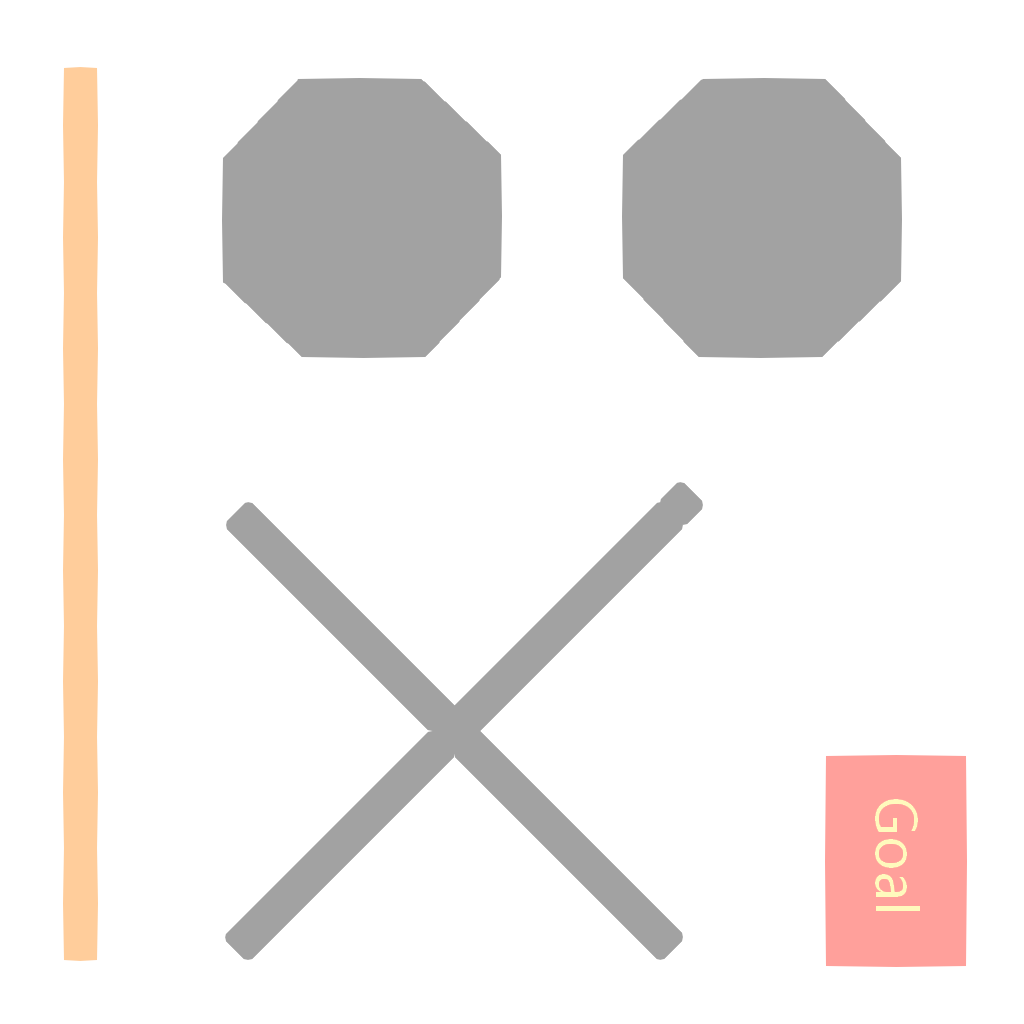
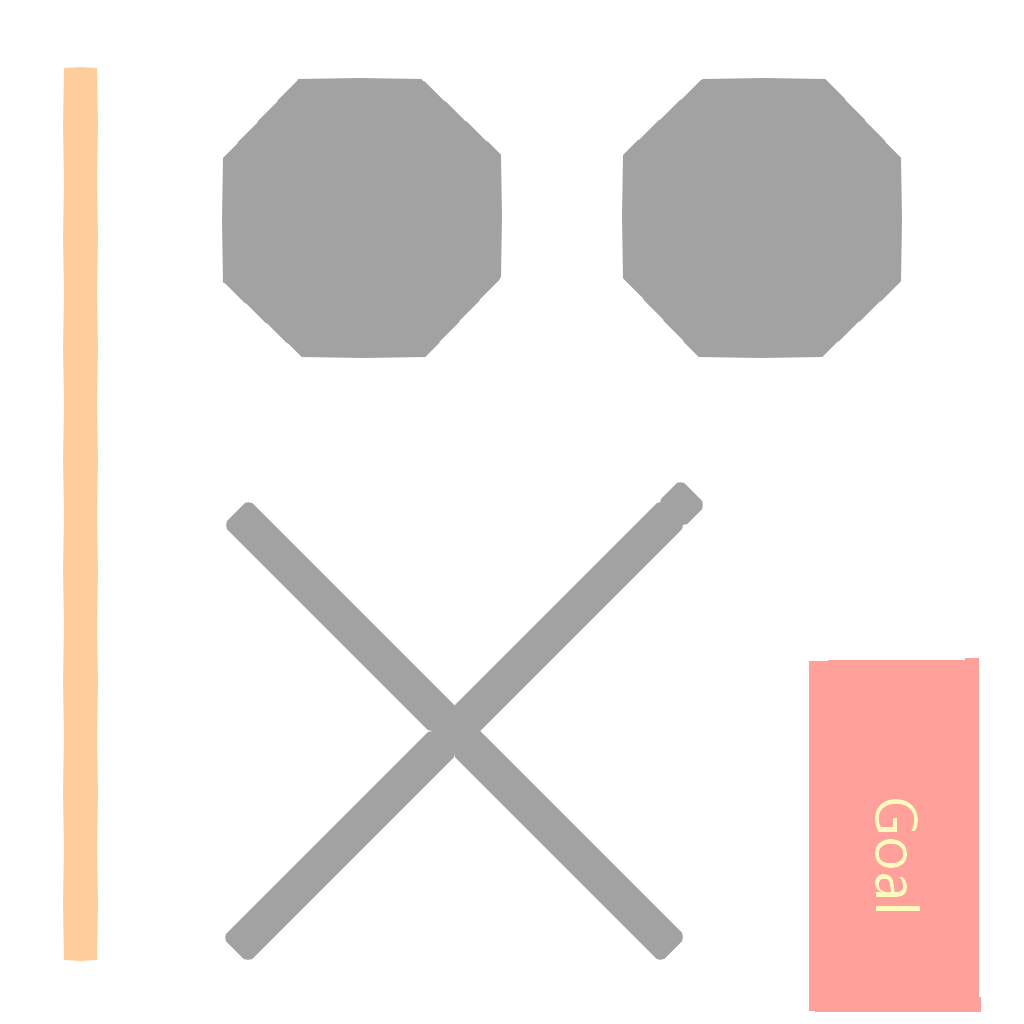
ゴールのモデル修正,鍵の取得UI変更

Changed region(s): [[0.7812, 0.625, 0.9688, 1.0]]

diff --git a/GameProgram/UIManager.cpp b/GameProgram/UIManager.cpp
@@ -24,6 +24,11 @@ UIManager::~UIManager() {
 			delete keyIcons_[i];
 			keyIcons_[i] = nullptr;
 		}
+
+		if (No_keyIcons_[i]) {
+			delete No_keyIcons_[i];
+			No_keyIcons_[i] = nullptr;
+		}
 	}
 	
 	if (keyboardGuideSprite_)
@@ -71,11 +76,17 @@ void UIManager::Initialize() {
 	// 鍵アイコンの初期化（最大10個まで）
 	for (int i = 0; i < MAX_KEYS; i++) {
 		keyIcons_[i] = new Sprite();
-		keyIcons_[i]->Initialize("key.png");
+		keyIcons_[i]->Initialize("key_Icon.png");
 		// 鍵アイコンを横並びにする（HPバーの上に配置）
 		float xPos = 10.0f + (i * 15.0f); // 各鍵アイコンの間隔を35ピクセルに設定
 		keyIcons_[i]->SetPosition({ xPos, WinApp::kClientHeight - 90 });
 		keyIcons_[i]->SetSize({60, 60});
+
+		No_keyIcons_[i] = new Sprite();
+		No_keyIcons_[i]->Initialize("noKey_Icon.png");
+		// 鍵アイコンを横並びにする（HPバーの上に配置）
+		No_keyIcons_[i]->SetPosition({ xPos, WinApp::kClientHeight - 90 });
+		No_keyIcons_[i]->SetSize({ 60, 60 });
 	}
 
 	// キーボード操作ガイド
@@ -126,6 +137,10 @@ void UIManager::Update() {
 	for (int i = 0; i < MAX_KEYS; i++) {
 		if (keyIcons_[i]) {
 			keyIcons_[i]->Update();
+		}
+		
+		if (No_keyIcons_[i]) {
+			No_keyIcons_[i]->Update();
 		}
 	}
 	
@@ -218,6 +233,7 @@ void UIManager::DrawKeyCount(int remainingKeys, int totalKeys) {
 		for (int i = 0; i < totalKeys; i++) {
 			float xPos = startX + i * (iconWidth + iconSpacing);
 			keyIcons_[i]->SetPosition({ xPos, WinApp::kClientHeight - 140 });
+			No_keyIcons_[i]->SetPosition({ xPos, WinApp::kClientHeight - 140 });
 		}
 	}
 	
@@ -225,6 +241,10 @@ void UIManager::DrawKeyCount(int remainingKeys, int totalKeys) {
 	for (int i = 0; i < totalKeys; i++) {
 		if (i < remainingKeys) {
 			// まだ取得していない鍵（表示する）
+			No_keyIcons_[i]->Draw();
+		}
+		else {
+			// 取得した鍵（表示する）
 			keyIcons_[i]->Draw();
 		}
 		// 取得済みの鍵は表示しない

diff --git a/GameProgram/Enemies/CannonEnemy.h b/GameProgram/Enemies/CannonEnemy.h
@@ -90,7 +90,7 @@ private:
 
 	// 攻撃関連のパラメータ
 	float attackRadius = 30.0f;     // 攻撃検知範囲（これを小さくすると検知範囲が縮小）
-	float fireTimer = 0.0f;         // 現在の発射タイマー
+	float fireTimer = 3.0f;         // 現在の発射タイマー
 	float fireInterval = 3.0f;      // 発射間隔（秒）- 3秒に変更
 
 	float animertion = 0.0f;

diff --git a/GameProgram/UIManager.h b/GameProgram/UIManager.h
@@ -47,6 +47,7 @@ private:
 	// 鍵表示関連
 	static const int MAX_KEYS = 10;     // 最大表示可能な鍵の数
 	Sprite* keyIcons_[MAX_KEYS] = {};   // 鍵アイコンの配列
+	Sprite* No_keyIcons_[MAX_KEYS] = {}; // 持ってない鍵アイコンの配列
 	int currentTotalKeys_ = 0;          // 現在のステージの鍵の総数
 
 	// 操作ガイド関連
